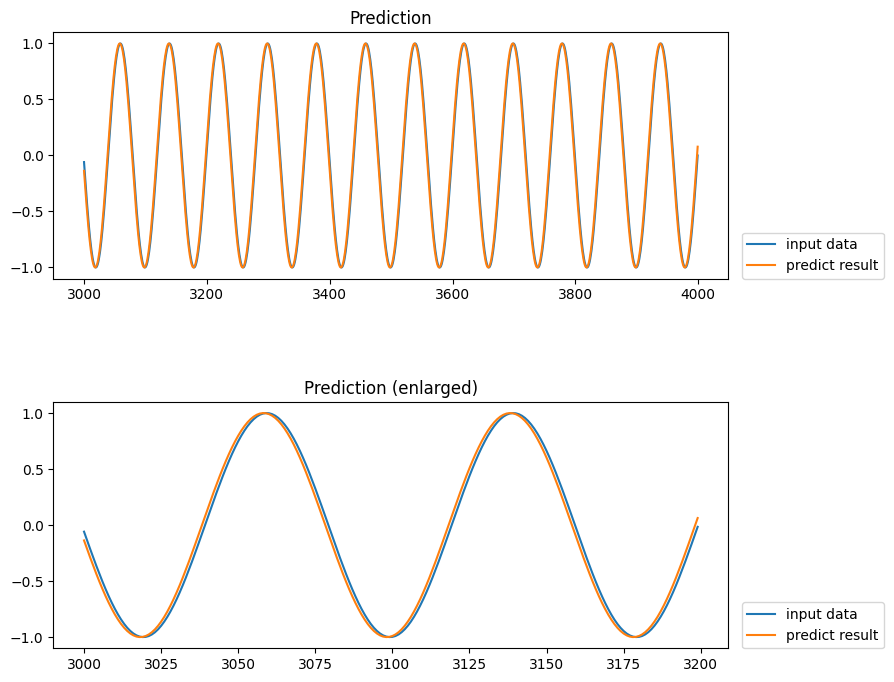
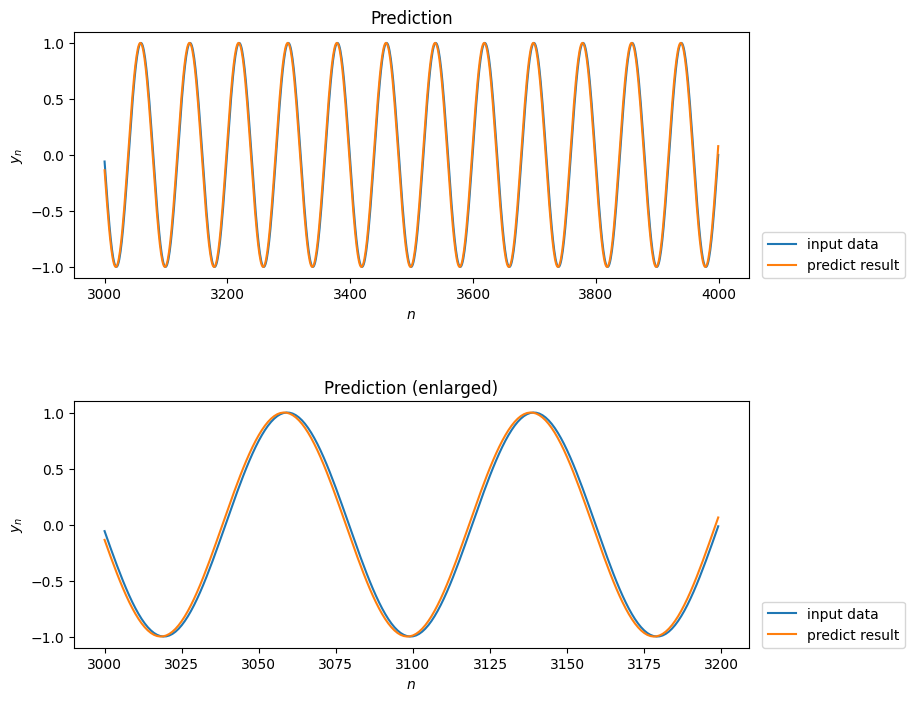
update plot labels

diff --git a/src/logistic.py b/src/logistic.py
@@ -50,6 +50,8 @@ index = np.arange(train_length, tmax)
 ax1.plot(index, data[train_length:-1], label='input data')
 ax1.plot(index, predict_result[train_length:-1, 0], label='predict result')
 ax1.legend(bbox_to_anchor=bbox_to_anchor, loc=bbox_loc, borderaxespad=0)
+ax1.set_xlabel(r'$n$')
+ax1.set_ylabel(r'$y_n$')
 ax1.set_title('Prediction')
 
 # Plot prediction (enlarged)
@@ -60,6 +62,8 @@ index = np.arange(train_length, enlarge_tmax)
 ax2.plot(index, data[train_length:enlarge_tmax], label='input data')
 ax2.plot(index, predict_result[train_length:enlarge_tmax, 0], label='predict result')
 ax2.legend(bbox_to_anchor=bbox_to_anchor, loc=bbox_loc, borderaxespad=0)
+ax2.set_xlabel(r'$n$')
+ax2.set_ylabel(r'$y_n$')
 ax2.set_title('Prediction (enlarged)')
 
 fig.subplots_adjust(right=0.8, hspace=0.5)
@@ -71,11 +75,15 @@ plt.clf()
 # Plot prediction feature
 ax1 = fig.add_subplot(211)
 ax1.scatter(predict_result[:-1, 0], predict_result[1:, 0])
+ax1.set_xlabel(r'$y_n$')
+ax1.set_ylabel(r'$y_{n+1}$')
 ax1.set_title('Prediction')
 
 # Plot Logistic feature
 ax2 = fig.add_subplot(212)
 ax2.scatter(data[train_length:-1, 0], data[train_length + 1:, 0])
+ax2.set_xlabel(r'$y_n$')
+ax2.set_ylabel(r'$y_{n+1}$')
 ax2.set_title('Logistic')
 
 fig.subplots_adjust(right=0.8, hspace=0.5)

diff --git a/src/sinusoid.py b/src/sinusoid.py
@@ -41,6 +41,8 @@ index = np.arange(train_length, tmax)
 ax1.plot(index, data[train_length:], label='input data')
 ax1.plot(index, predict_result[train_length:-1, 0], label='predict result')
 ax1.set_ylim(-1.1, 1.1)
+ax1.set_xlabel(r'$n$')
+ax1.set_ylabel(r'$y_n$')
 ax1.legend(bbox_to_anchor=bbox_to_anchor, loc=bbox_loc, borderaxespad=0)
 ax1.set_title('Prediction')
 
@@ -53,6 +55,8 @@ ax2.plot(index, data[train_length:enlarge_tmax], label='input data')
 ax2.plot(index, predict_result[train_length:enlarge_tmax, 0], label='predict result')
 ax2.legend(bbox_to_anchor=bbox_to_anchor, loc=bbox_loc, borderaxespad=0)
 ax1.set_ylim(-1.1, 1.1)
+ax2.set_xlabel(r'$n$')
+ax2.set_ylabel(r'$y_n$')
 ax2.set_title('Prediction (enlarged)')
 
 fig.subplots_adjust(right=0.8, hspace=0.5)
